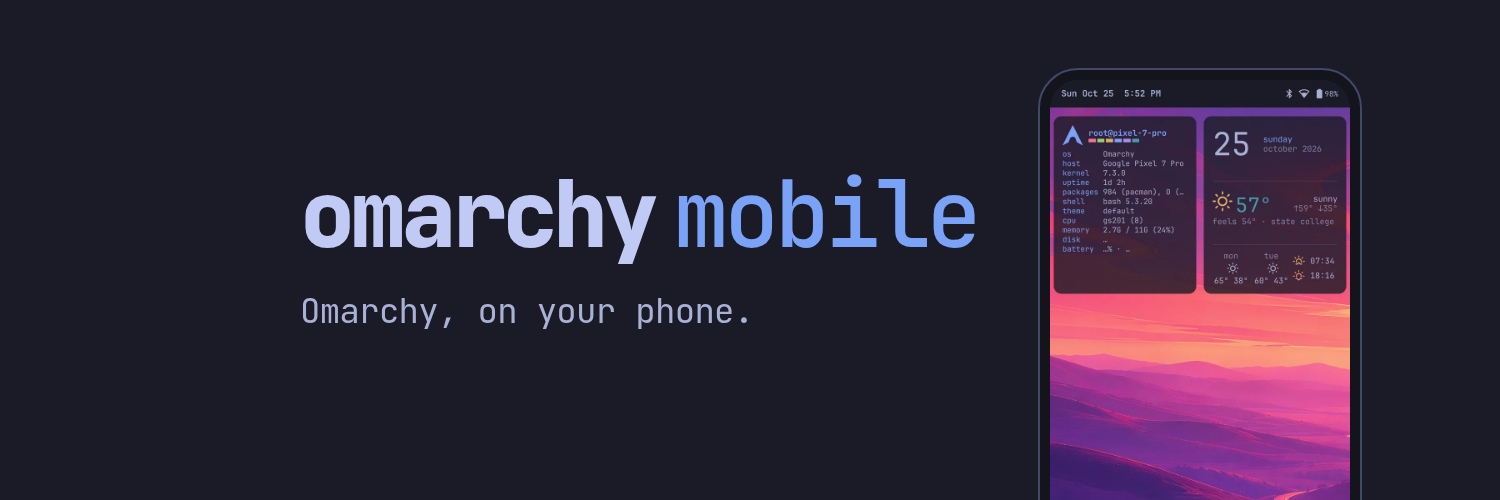
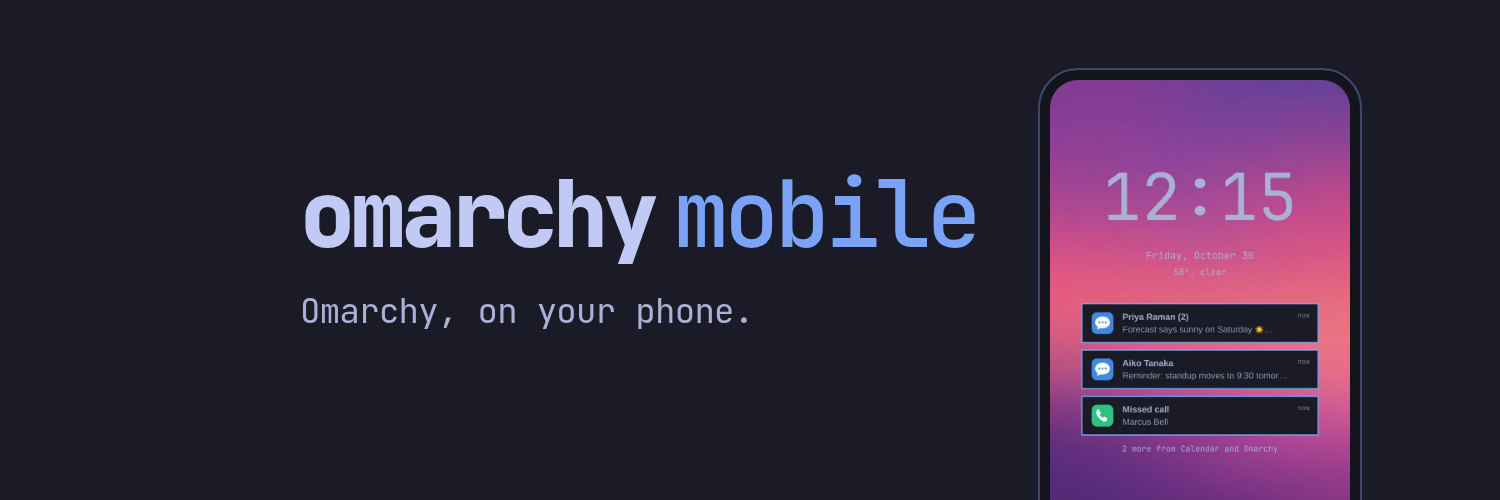
site: a screenshot gallery, every phone listed alike, no phone in the copy
The home page now names no phone in its running copy, and the Phones
section lists every device from DEVICES.md the same way, ordered by
progress (a working part counts 3, testing or partial 2, in progress
1), with a dot per part and "N of M parts work"; no split into
featured phones and ports. "Install it" goes to /devices, because the
install steps are per phone.

The four old screenshots give way to a gallery of 17 from one session
with made-up demo data, as 720 px WebP in public/gallery/, each
opening in a <dialog> lightbox (arrow keys, Escape, focus returns).
The Wi-Fi network name, phone numbers, a conference badge's Wi-Fi line
and an album cover are blurred; a home screen whose photo widget shows
a third-party photo is left out. The hero uses the lock screen and the
same phone frame as the gallery, showing the whole screenshot.
public/screens/ is removed (no page uses it any more), and the link
preview image and the Nostr banner are rendered again from the lock
screen.

Changed region(s): [[0.6747, 0.15, 0.92, 1.0]]

diff --git a/src/lib/devices.ts b/src/lib/devices.ts
@@ -163,11 +163,9 @@ export function countStatus(d: Device, ...status: Status[]): number {
   return parts(d).filter((p) => status.includes(p.cell.status)).length;
 }
 
-// The best-supported phones: Boot works and at least half of their parts work,
-// most working parts first. Every other device is a port in progress, the
-// furthest along (most parts past "no") first.
-const isFeatured = (d: Device) => d.cells["Boot"]?.status === "works" && countStatus(d, "works") * 2 >= parts(d).length;
-export const featured = devices.filter(isFeatured).sort((a, b) => countStatus(b, "works") - countStatus(a, "works"));
-export const inProgress = devices
-  .filter((d) => !isFeatured(d))
-  .sort((a, b) => parts(b).length - countStatus(b, "no") - (parts(a).length - countStatus(a, "no")));
+// Every device, furthest along first: a working part counts 3, a part in
+// testing or partial 2, one in progress (WIP, built, boots) 1. Ties keep the
+// order of DEVICES.md.
+const WEIGHT: Record<Status, number> = { works: 3, testing: 2, partial: 2, wip: 1, built: 1, boots: 1, no: 0, none: 0 };
+export const progress = (d: Device) => parts(d).reduce((n, p) => n + WEIGHT[p.cell.status], 0);
+export const byProgress = [...devices].sort((a, b) => progress(b) - progress(a));

diff --git a/nostr/art/banner.html b/nostr/art/banner.html
@@ -7,4 +7,4 @@ h1 span{color:#7aa2f7;font-weight:500;margin-left:.35ch}
 p{margin:28px 0 0;font-size:34px;color:#a9b1d6;letter-spacing:-0.02em}
 .shot{position:absolute;left:1040px;top:70px;width:300px;border:10px solid #13141c;outline:2px solid #414868;border-radius:38px;overflow:hidden;height:600px}
 .shot img{width:100%;display:block}
-</style><div class=wrap><div><h1>omarchy<span>mobile</span></h1><p>Omarchy, on your phone.</p></div><div class=shot><img src="../../public/screens/home.webp"></div></div>
+</style><div class=wrap><div><h1>omarchy<span>mobile</span></h1><p>Omarchy, on your phone.</p></div><div class=shot><img src="../../public/gallery/01-lock-glance.webp"></div></div>
